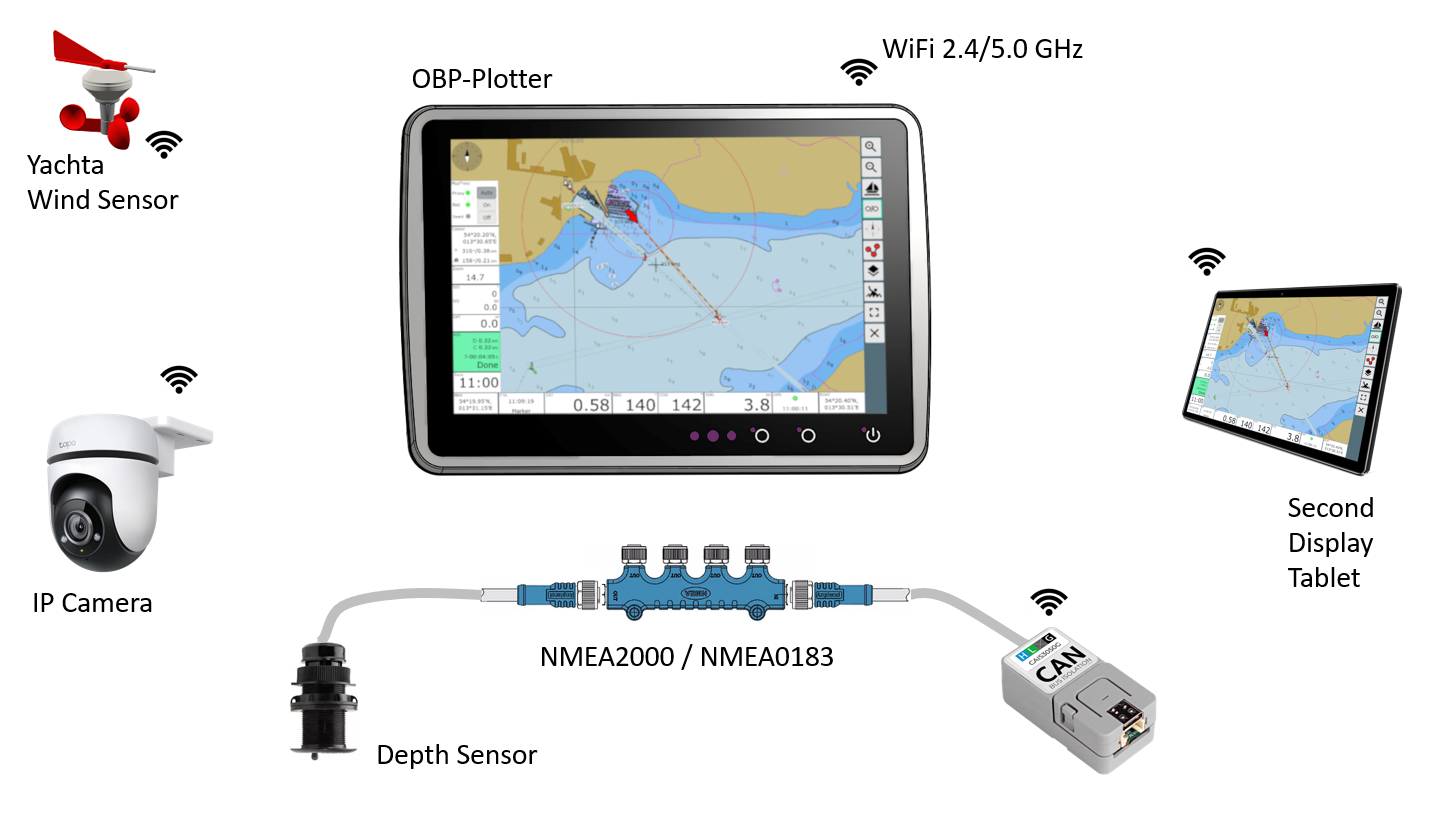
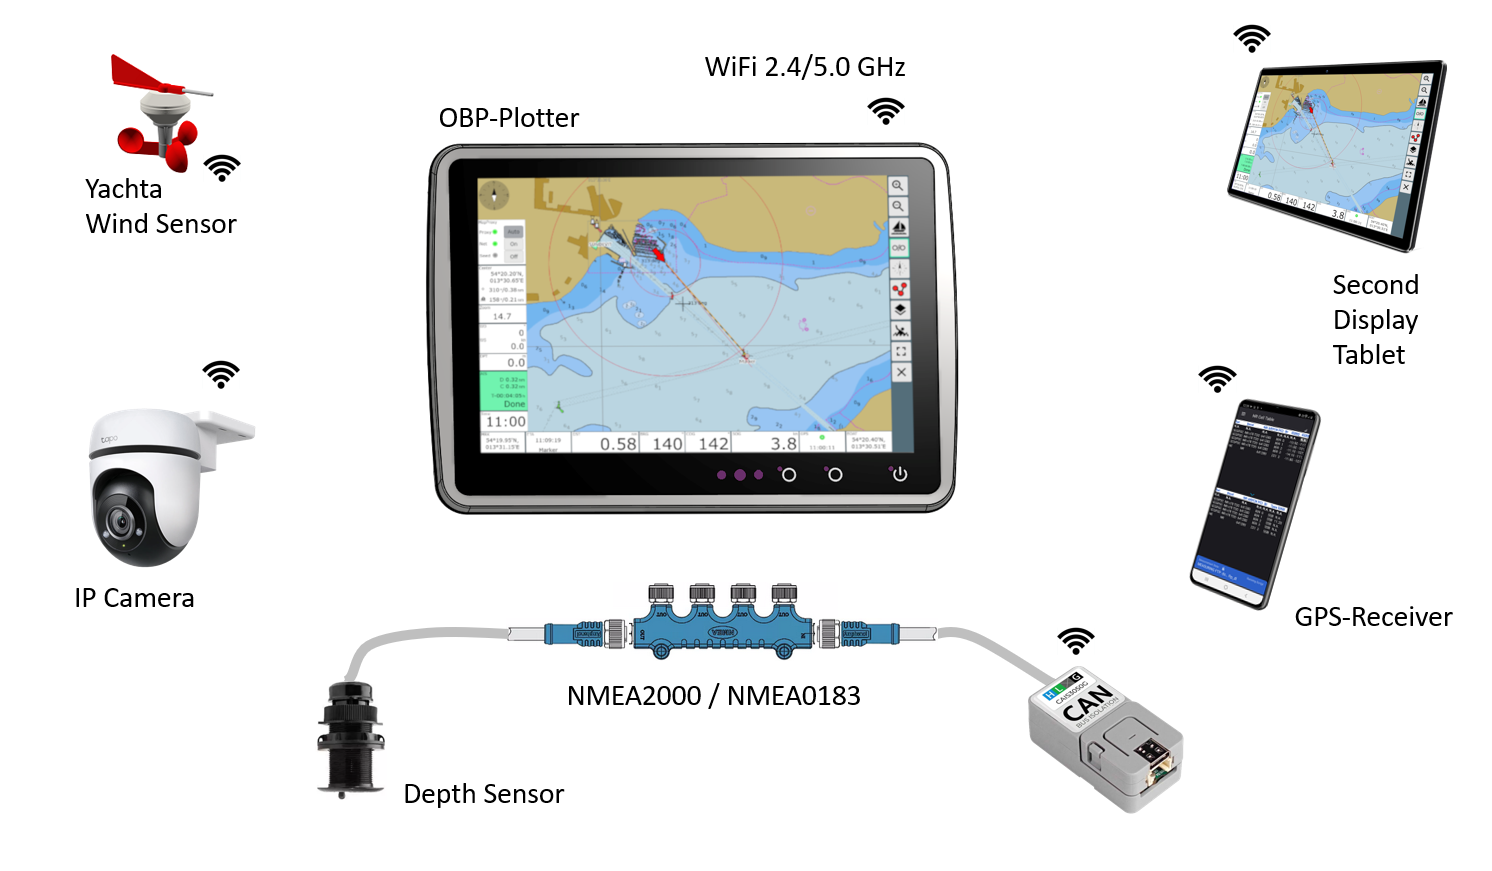
Changes

diff --git a/docs/intro/Usecases.rst b/docs/intro/Usecases.rst
@@ -1,0 +1,36 @@
+Einsatzmöglichkeiten
+====================
+
+Nachfolgend werden einige Einsatzmöglichkeiten für den OBP-Plotter gezeigt. 
+
+Variante WiFi
+-------------
+
+Bei der WiFi-Variante werden alle externen Informationen über WiFi dem OBP-Plotter zugeführt. Die unterschiedlichen Geräte wie Windsensor, Kamera oder Busdaten werden dabei über WiFi-Verbindungen hergestellt. Der OBP-Plotter ist dabei der WiFi-Hotspot und das Bedien- und Anzeigegerät so ähnlich wie man das vom Handy her gewohnt ist. Ein Handy kann z.B. als GPS-Datenquelle dienen und dem Plotter die GPS-Daten zur Verfügung stellen..
+
+.. hint::
+	Für die Bereitstellung eines WiFi-Hotspots ist es praktischer, wenn man im Boot einen dedizierten internetfähigen 4G/5G-WiFi-Router benutzt. So können sich alle Geräte und Besatzungsmitglieder mit dem Internet verbinden.
+
+.. image:: /pics/Use_Case_3.png
+		 :scale: 50%
+
+Variante Bussystem
+------------------
+
+Als weitere Variante besteht die Möglichkeit, den OBP-Plotter auch direkt mit den Bussystemen an Bord zu verbinden. Dazu benötigt man eine Zusatzplatine die in den Erweiterungsport im Plotter installiert wird. Folgende Funktionen lassen sich über die Zusatzplatine nutzen:
+
+	* GPS-Empfänger (GPS, Glonas, Beidu, Galileo)
+	* 1x NMEA200-Port (isoliert)
+	* 1x NMEA0183-Port (isoliert, unidirektional)
+	* 1x I2C-Port (isoliert)
+	* 11x Wire-Port
+	* NMEA2000-Gateway
+
+Neben den Daten aus den Bussystemen lassen sich auch Daten über WiFi in den Plotter einbinden, wie z.B. von einem Windsensor Yachta.
+
+.. note::
+	Die Zusatzplatine bedindet sich aktuell noch in Entwicklung und wird demnächst verfügbar sein.
+
+
+.. image:: /pics/Use_Case_2.png
+		 :scale: 50%

diff --git a/docs/index.rst b/docs/index.rst
@@ -73,7 +73,7 @@ Der OBP-Plotter V4 ist von Wassersportlern für Wassersportler entwickelt worden
    Übersicht <intro/historie>
    Technische Daten <intro/specification>
    Erweiterungen <intro/variants>
-   Einsatzmöglichkeiten <intro/usecase>
+   Einsatzmöglichkeiten <intro/usecases>
     
 .. toctree::
    :maxdepth: 3
